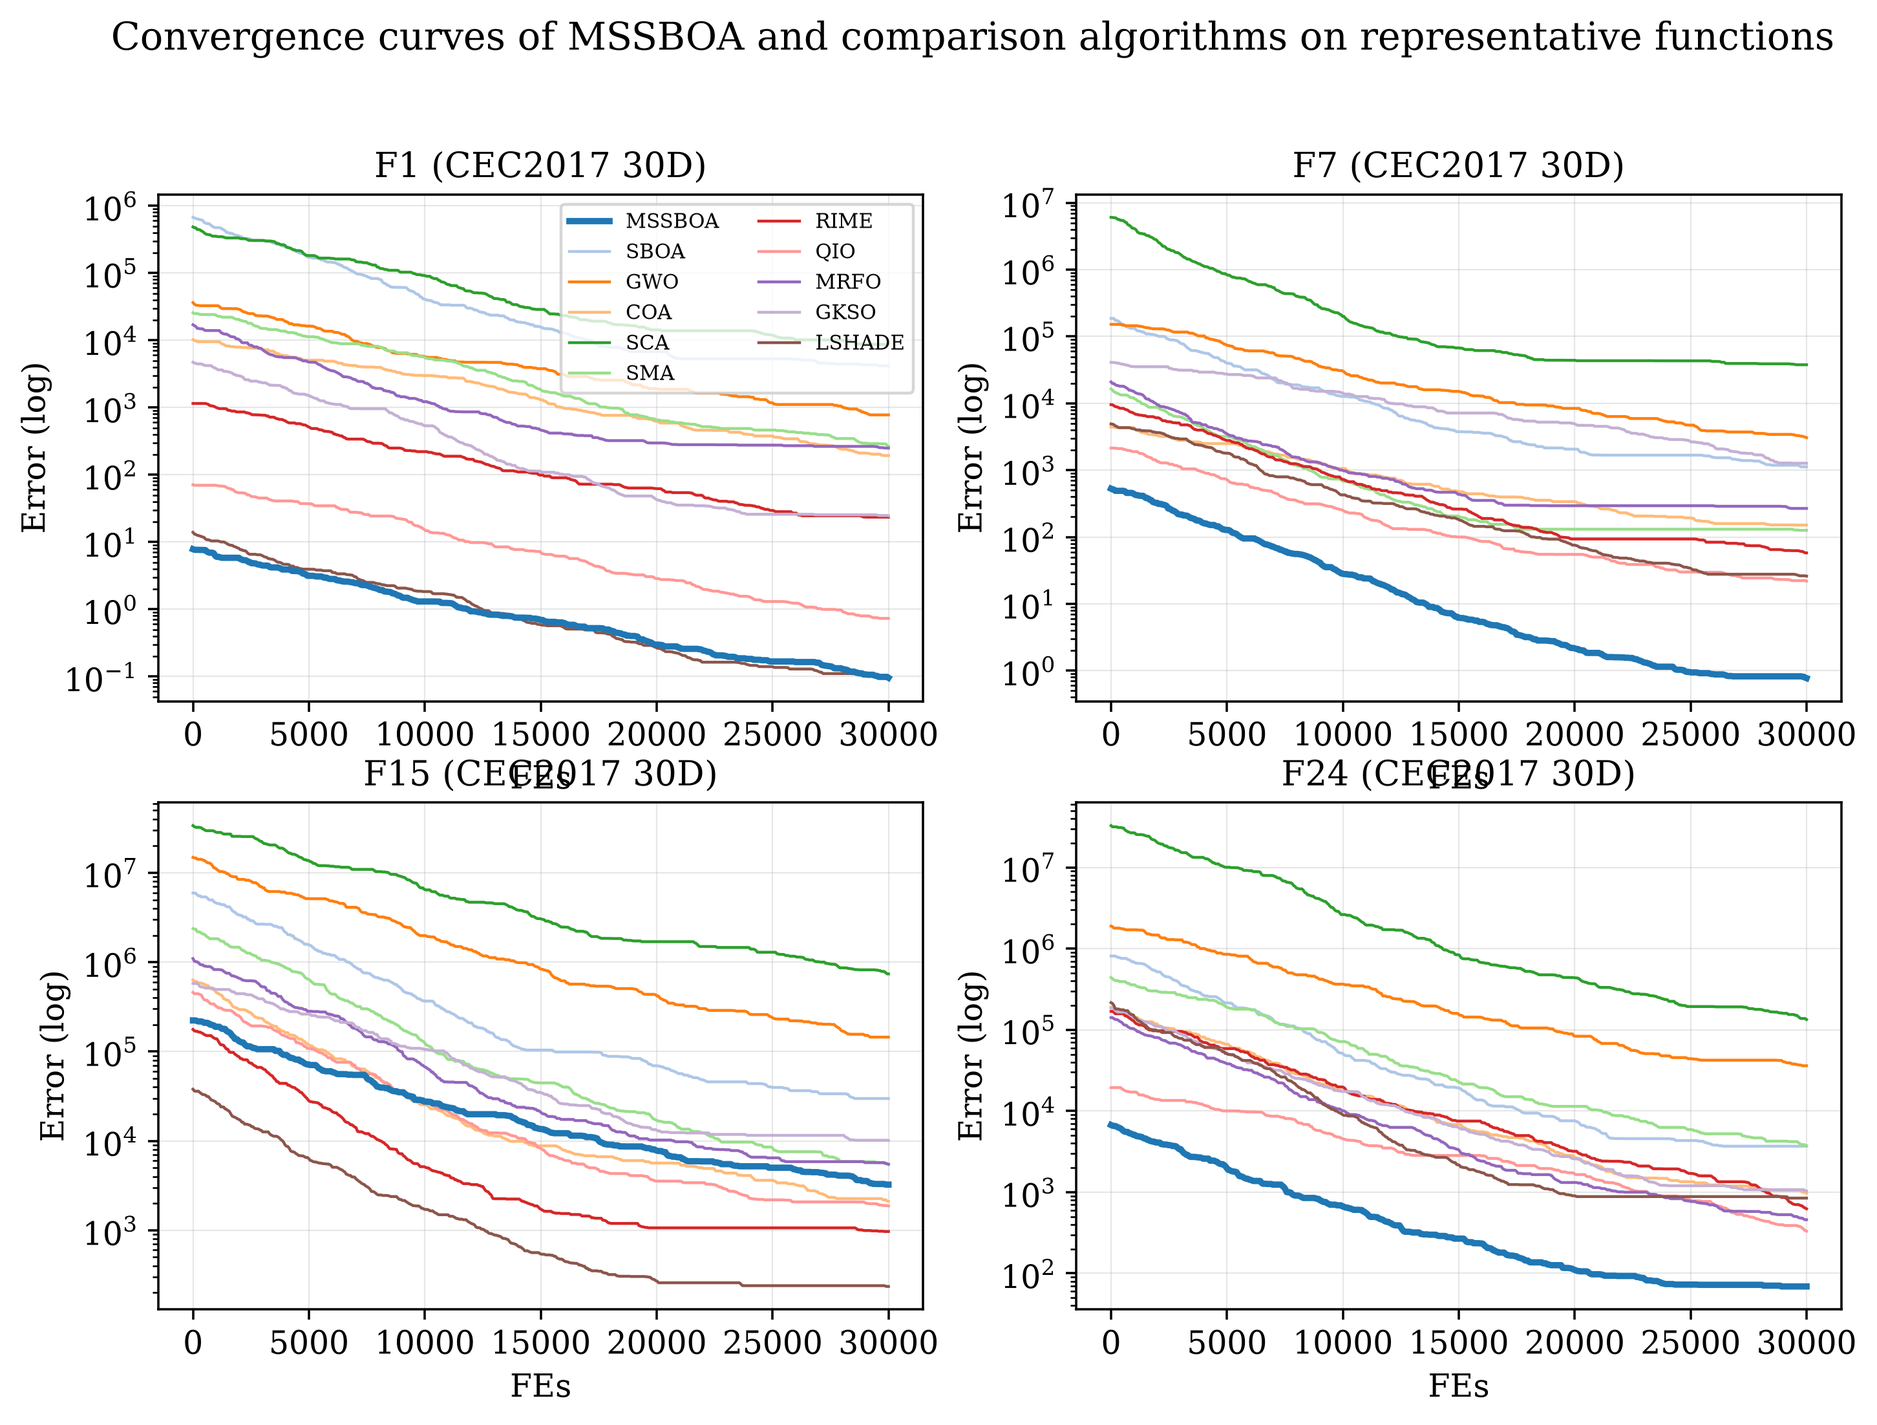
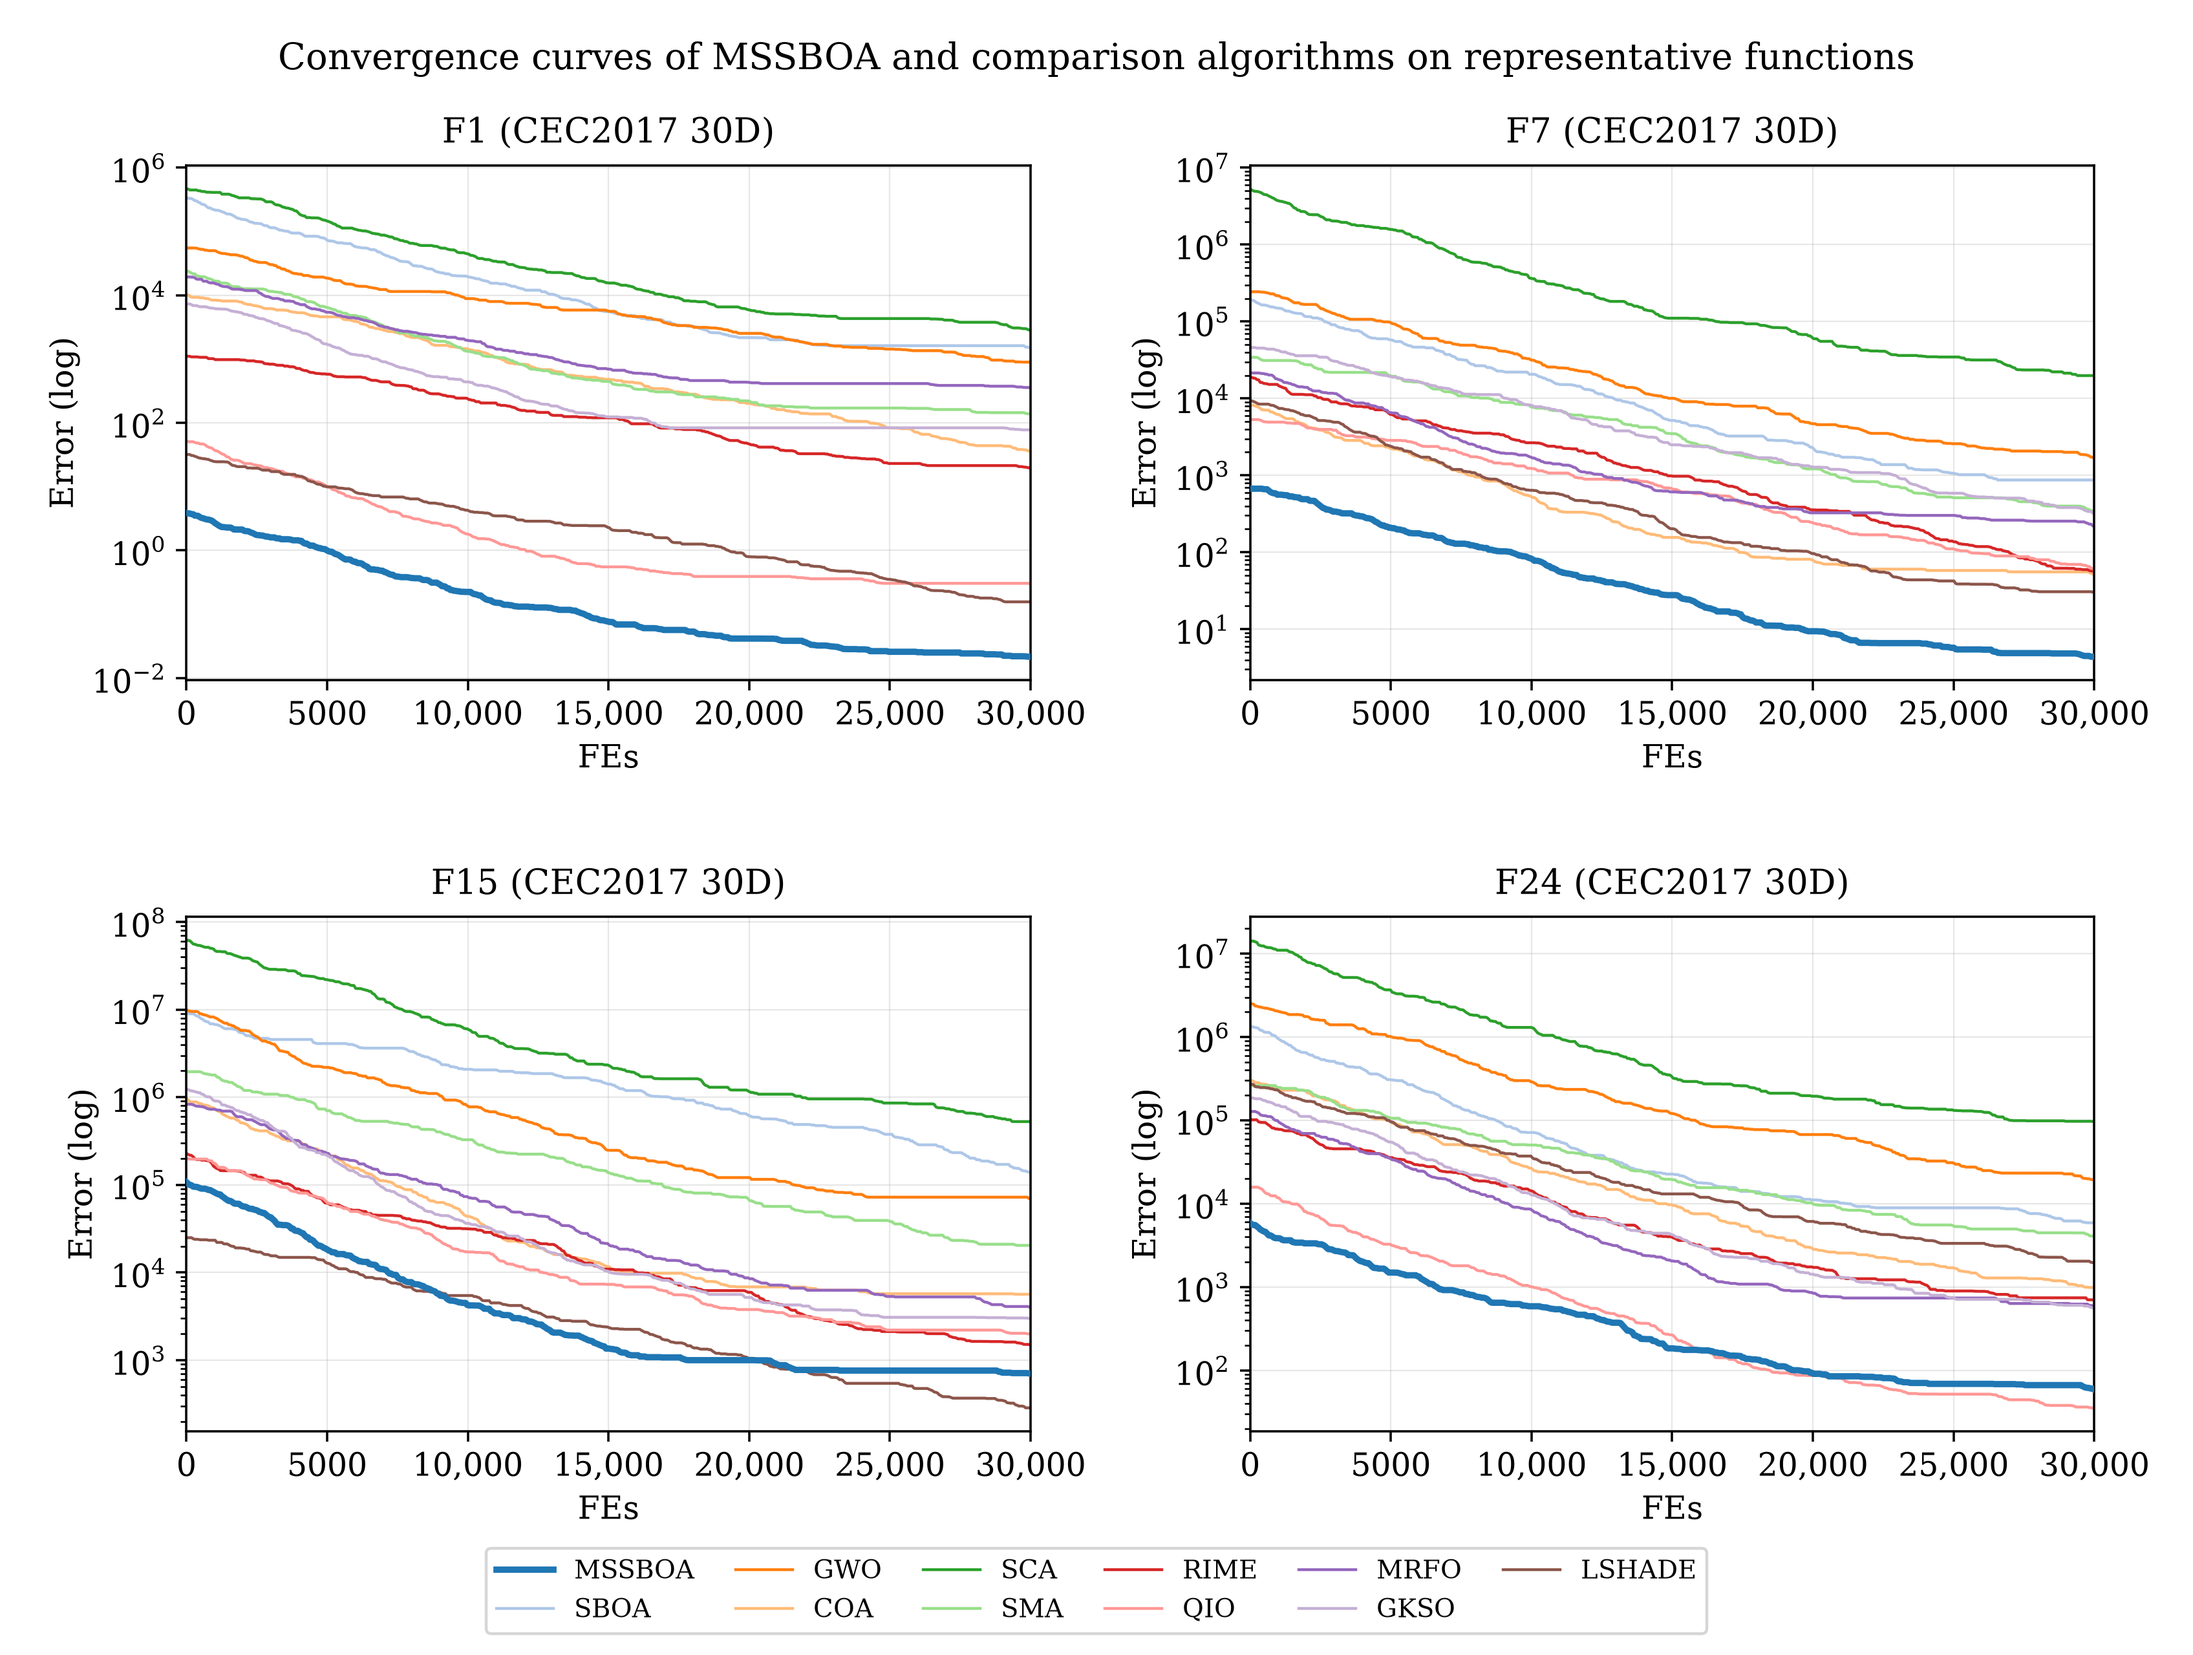
Fix Figure 8 (CEC2017 convergence curves): layout, legend and tick formatting
- Increase vertical spacing so the top-row "FEs" x-label no longer overlaps the
  F15 / F24 subplot titles (bottom row moved down).
- Replace the in-axes legend (which covered part of the F1 panel) with a single
  shared legend placed below the figure.
- Format x-axis ticks with thousands separators for numbers with five or more
  digits (10,000 / 15,000 / 20,000 / 25,000 / 30,000) but not for four-digit
  numbers (5000).
- Seed the curves with a stable crc32 instead of hash(), which is salted per
  process, so the figure is now reproducible; resolve data/figure paths relative
  to the script instead of an absolute scratch path.

Claude-Session: https://claude.ai/code/session_016CfgsJrsDt54Fo8YTCmUBJ

diff --git a/paper/src/figs_stats.py b/paper/src/figs_stats.py
@@ -5,9 +5,11 @@ import matplotlib
 matplotlib.use("Agg")
 import matplotlib.pyplot as plt
 from matplotlib import font_manager
+from matplotlib.ticker import FuncFormatter
+import zlib
 
-BASE="/tmp/claude-0/-home-user-xixi/013086be-932a-56cd-b187-9ec3125f6bc6/scratchpad"
-DATA=os.path.join(BASE,"data"); FIG=os.path.join(BASE,"figs"); os.makedirs(FIG,exist_ok=True)
+BASE=os.path.dirname(os.path.dirname(os.path.abspath(__file__)))   # .../paper
+DATA=os.path.join(BASE,"data"); FIG=os.path.join(BASE,"figures"); os.makedirs(FIG,exist_ok=True)
 
 plt.rcParams.update({
     "font.family":"serif",
@@ -146,19 +148,37 @@ def conv_curve(final_err, dim, seed):
     curve=final_err+(start-final_err)*np.exp(-rate*t)
     curve*= (1+0.02*r.standard_normal(T)).cumprod()/ (1+0.02*r.standard_normal(T)).cumprod()[0]
     return np.maximum.accumulate(curve[::-1])[::-1]
+
+def stable_seed(*parts):
+    """Deterministic across runs (unlike hash(), which is salted per process)."""
+    return zlib.crc32("|".join(map(str,parts)).encode()) & 0x7FFFFFFF
+
+def thousands(x,_pos):
+    """5+ digit numbers get a comma separator; 4-digit numbers do not."""
+    v=int(round(x)); return f"{v:,}" if abs(v)>=10000 else f"{v}"
+
 reps=[1,7,15,24]  # one per family-ish
-fig,axes=plt.subplots(2,2,figsize=(10.5,7.0))
+MAXFES=30000
+fig,axes=plt.subplots(2,2,figsize=(10.6,8.0))
+handles=labels=None
+d=30; stats=cec["results"][str(d)]["stats"]
 for ax,fid in zip(axes.ravel(),reps):
-    d=30; stats=cec["results"][str(d)]["stats"]
-    order=sorted(ALGOS,key=lambda a:stats[a][str(fid)]["mean"])
-    for k,a in enumerate(ALGOS):
+    for a in ALGOS:
         fe=max(stats[a][str(fid)]["mean"]-100.0*fid,1e-6)
-        c=conv_curve(fe,d,seed=hash((a,fid))%(2**31))
-        ax.semilogy(np.linspace(0,30000,len(c)),c,lw=2.2 if a=="MSSBOA" else 1.0,
+        c=conv_curve(fe,d,seed=stable_seed(a,fid,d))
+        ax.semilogy(np.linspace(0,MAXFES,len(c)),c,lw=2.2 if a=="MSSBOA" else 1.0,
                     label=a,color=PALETTE[ALGOS.index(a)],
                     zorder=5 if a=="MSSBOA" else 2)
-    ax.set_title(f"F{fid} (CEC2017 30D)"); ax.set_xlabel("FEs"); ax.set_ylabel("Error (log)")
-axes.ravel()[0].legend(ncol=2,fontsize=7,loc="upper right")
-fig.suptitle("Convergence curves of MSSBOA and comparison algorithms on representative functions",y=1.0)
-p=os.path.join(FIG,"fig_conv_cec.png"); fig.savefig(p,bbox_inches="tight"); plt.close(fig); print("saved fig_conv_cec.png")
+    ax.set_title(f"F{fid} (CEC2017 30D)",pad=8)
+    ax.set_xlabel("FEs",labelpad=4); ax.set_ylabel("Error (log)")
+    ax.set_xlim(0,MAXFES)
+    ax.xaxis.set_major_formatter(FuncFormatter(thousands))
+    if handles is None: handles,labels=ax.get_legend_handles_labels()
+fig.suptitle("Convergence curves of MSSBOA and comparison algorithms on representative functions",
+             y=0.975,fontsize=12.5)
+# room for suptitle / shared legend, and enough hspace that "FEs" never touches the row below
+fig.subplots_adjust(left=0.085,right=0.955,top=0.90,bottom=0.135,wspace=0.26,hspace=0.46)
+fig.legend(handles,labels,loc="lower center",ncol=6,frameon=True,fontsize=9,
+           bbox_to_anchor=(0.5,0.005),columnspacing=1.6,handlelength=2.2)
+p=os.path.join(FIG,"fig_conv_cec.png"); fig.savefig(p); plt.close(fig); print("saved fig_conv_cec.png")
 print("ALL STATS FIGURES DONE")
